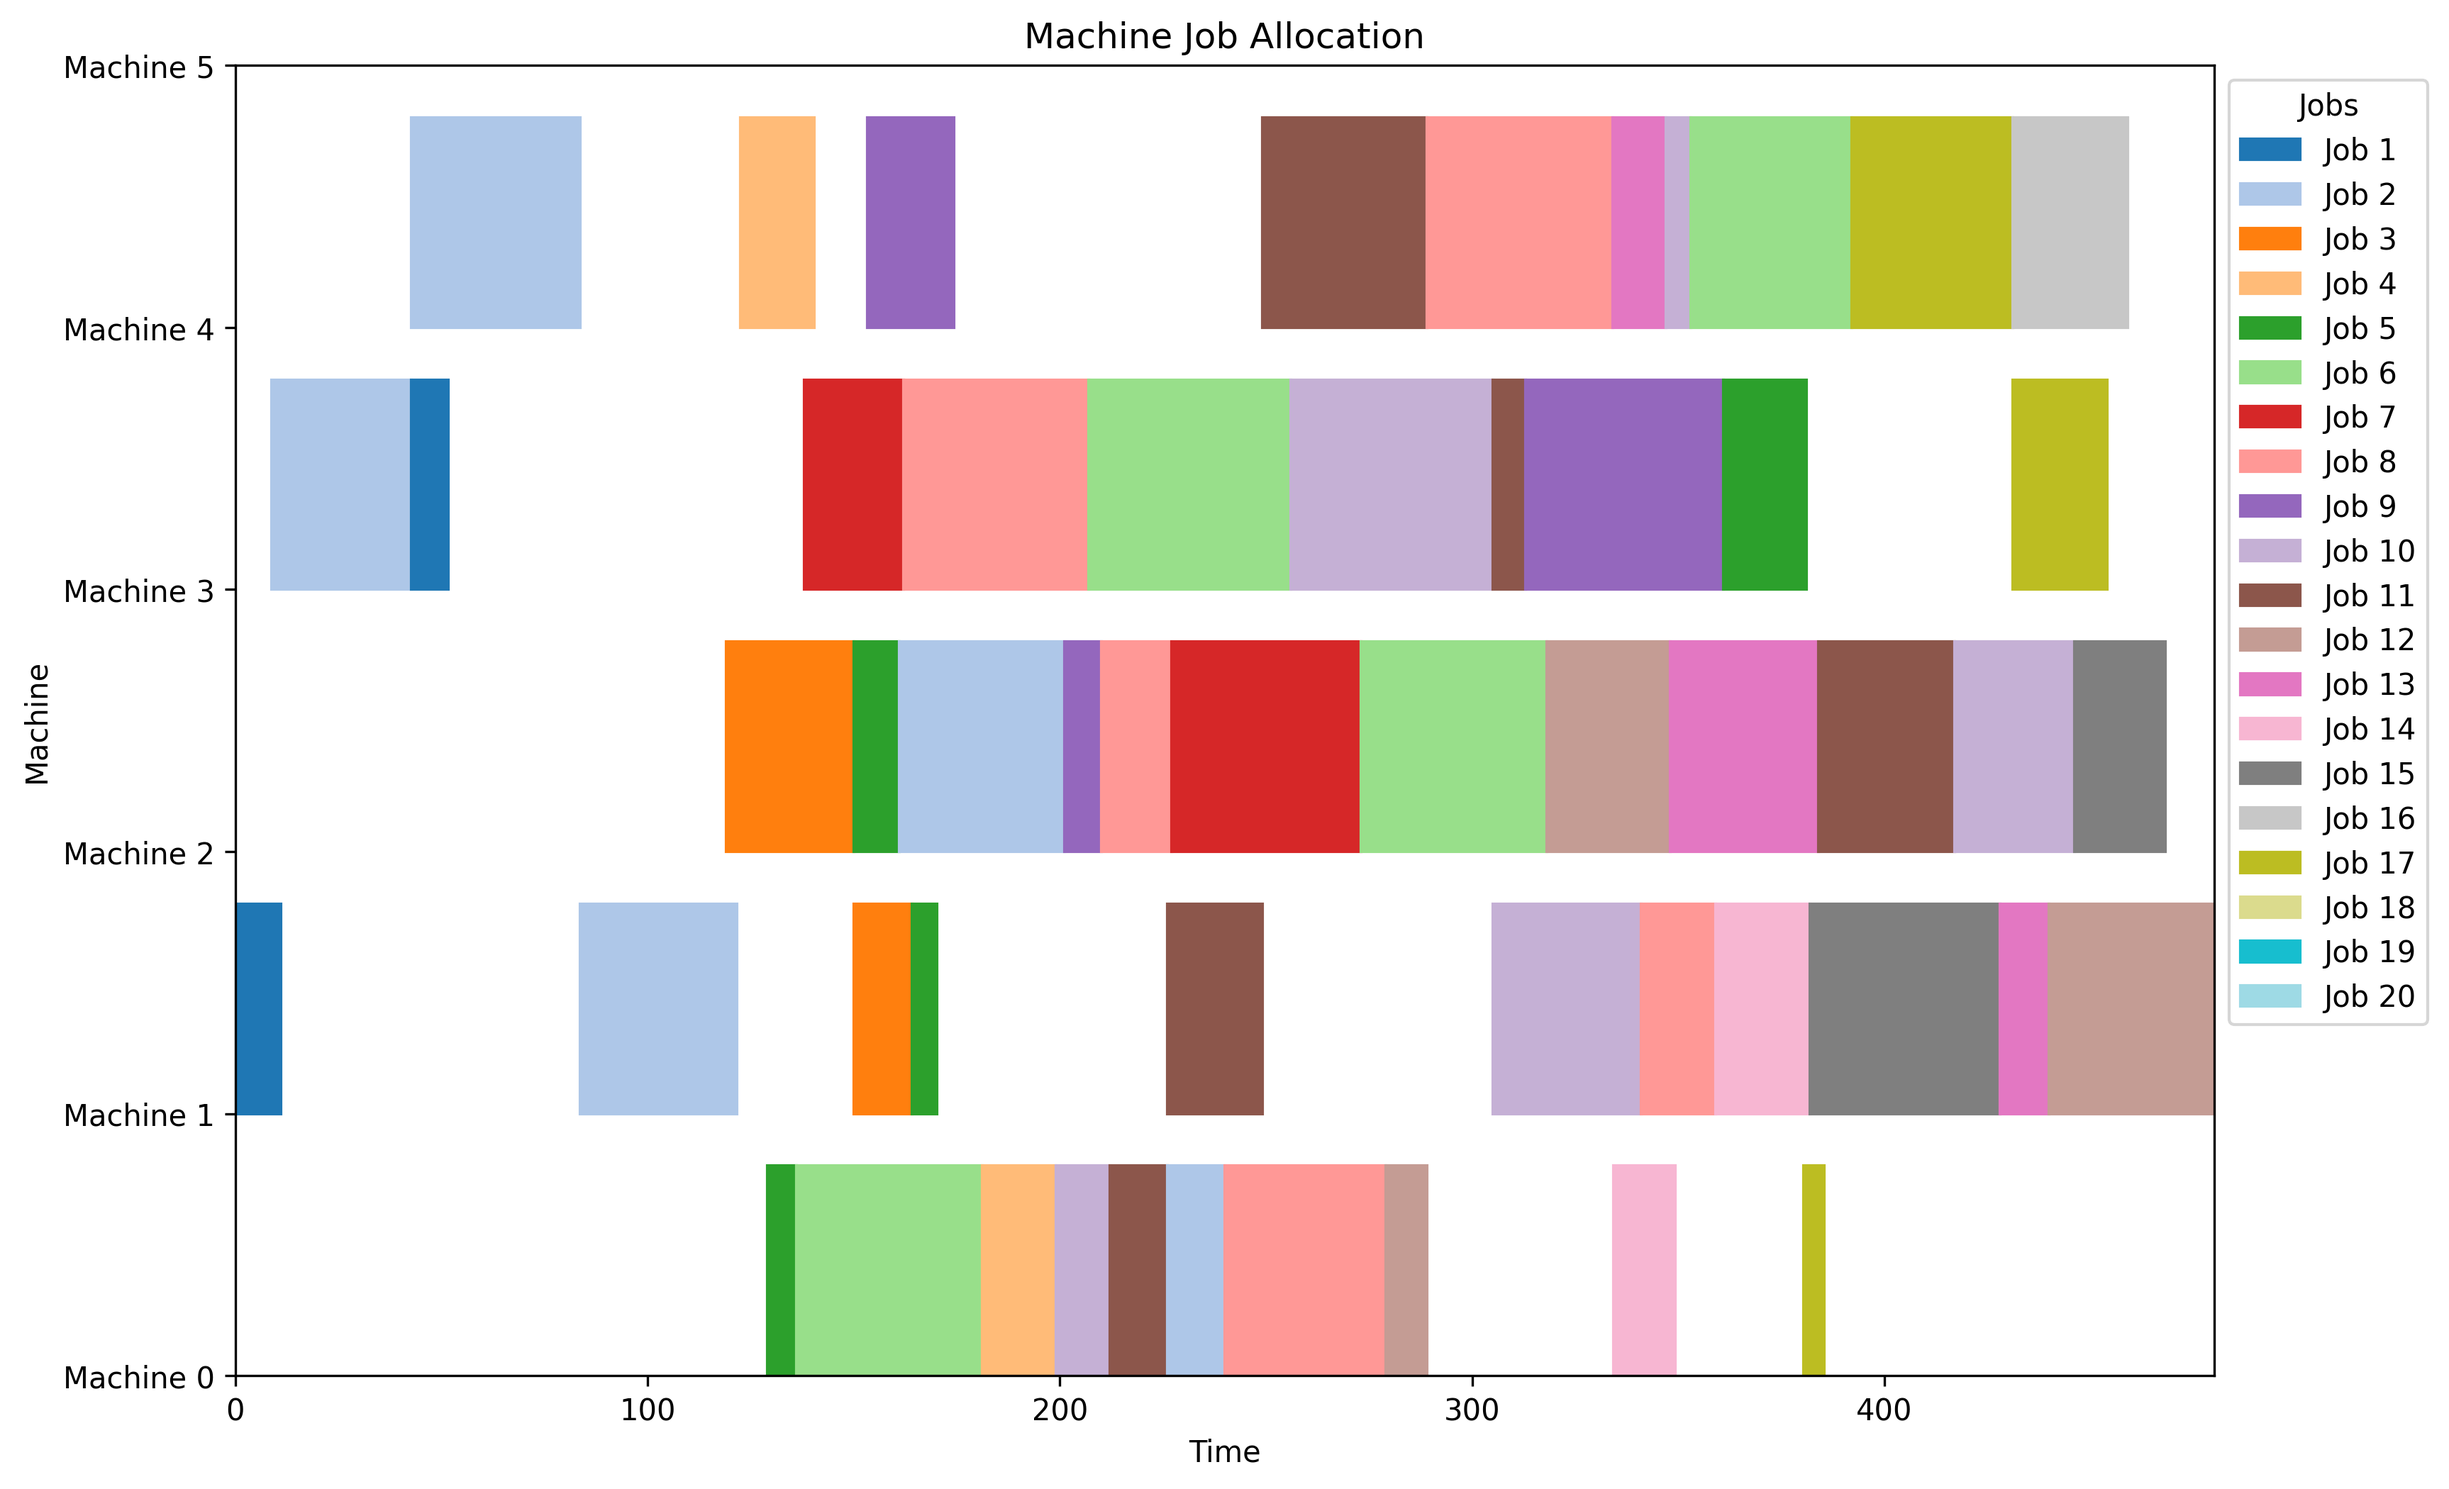
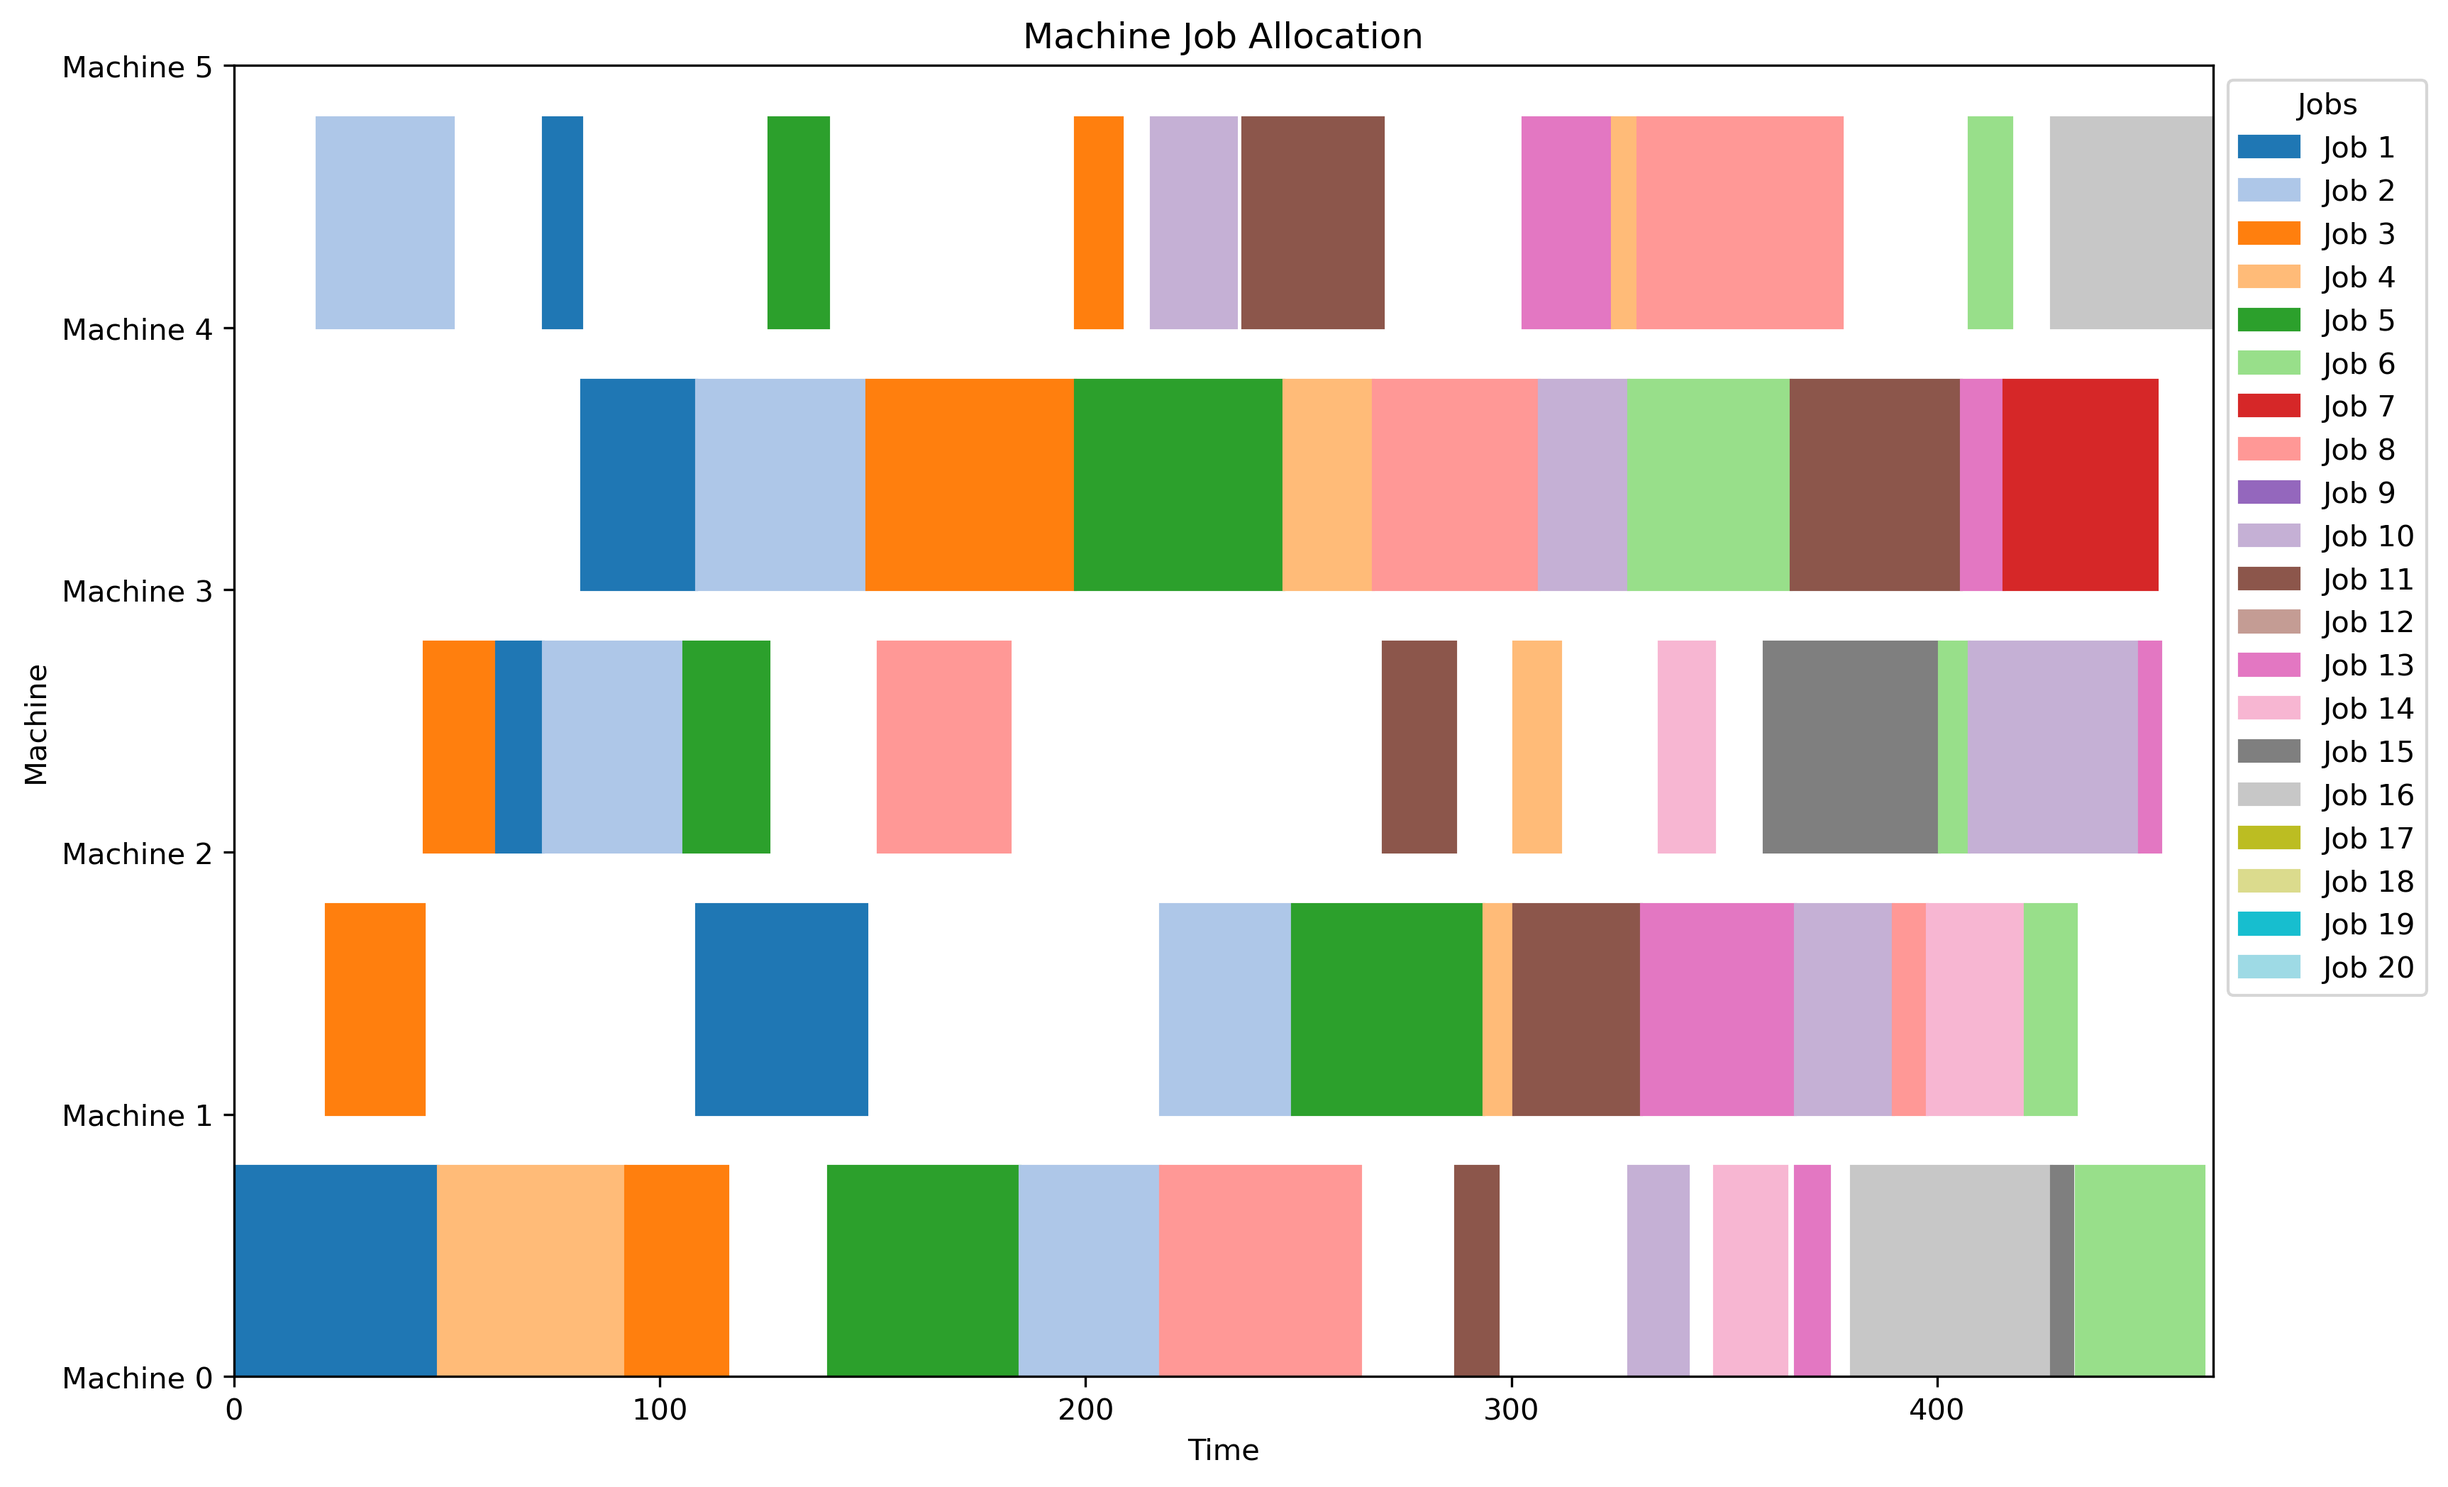
config objective

diff --git a/simulation.py b/simulation.py
@@ -356,30 +356,31 @@ def simulation(number_machines, number_jobs, warm_up, func, due_date_tightness, 
     return mean_flowtime, makespan, max_flowtime
 
 def rule(PT, RT, RPT, RNO, DD, RTO, PTN, SL, WT, APTQ, NJQ, WINQ, CT):
-    return RT
+    return (min(RTO,CT)-RT)
 
 if __name__ == "__main__":
     #Test the algorithm
     start = time.time()
-    max_tardiness = []
-    mean_tardiness = []
     mean_flowtime = []
+    makespan = []
+    max_flowtime = []
     
     random_seed = config.RANDOM_SEEDS_FOR_SIMULATION
     for i in random_seed:
-        current_mean_flowtime, current_mean_tardiness, current_max_tardiness = \
-            simulation(number_machines=config.NUMBER_MACHINES, number_jobs=config.NUMBER_JOBS, warm_up=config.WARM_UP, func=rule, random_seed=i, due_date_tightness=config.DUE_DATE_TIGHTNESS, utilization=config.UTILIZATION, missing_operation=config.MISSING_OPERATION)
+        current_mean_flowtime, current_makespan, current_max_flowtime = \
+            simulation(number_machines=config.NUMBER_MACHINES, number_jobs=config.NUMBER_JOBS, warm_up=config.WARM_UP,\
+                 func=rule, random_seed=i, due_date_tightness=config.DUE_DATE_TIGHTNESS, utilization=config.UTILIZATION, missing_operation=config.MISSING_OPERATION)
         mean_flowtime.append(current_mean_flowtime)
-        mean_tardiness.append(current_mean_tardiness)
-        max_tardiness.append(current_max_tardiness)
+        makespan.append(current_makespan)
+        max_flowtime.append(current_max_flowtime)
     end = time.time()
 
     # schedule.to_excel('schedule.xlsx')
     print(mean_flowtime)
-    print(mean_tardiness)
-    print(max_tardiness)
+    print(makespan)
+    print(max_flowtime)
 
     print(f'Execution time simulation per replication: {(end - start)}')
     print(f'Mean flowtime: {mean(mean_flowtime)}')
-    print(f'Mean Tardiness: {mean(mean_tardiness)}')
-    print(f'Max tardiness: {max(max_tardiness)}')
+    print(f'Mean makespan: {mean(makespan)}')
+    print(f'Max tardiness: {max(max_flowtime)}')

diff --git a/GPHH.py b/GPHH.py
@@ -70,10 +70,17 @@ toolbox.register("compile", gp.compile, pset=pset)
 def simpleEvalgenSeed(input):
     func = toolbox.compile(expr=input[0]) # Transform the tree expression in a callable function
     random_seed_current_run = input[1] # 來自於 invalid_ind 中的 random_seed (random.randint(1,300))
-    current_mean_flowtime, current_makespan = simulation(number_machines=config.NUMBER_MACHINES, number_jobs=config.NUMBER_JOBS, warm_up=config.WARM_UP,
+    current_mean_flowtime, current_makespan, current_max_flowtime = simulation(number_machines=config.NUMBER_MACHINES, number_jobs=config.NUMBER_JOBS, warm_up=config.WARM_UP,
                                                                                func=func, random_seed=random_seed_current_run, 
                                                                                due_date_tightness=config.DUE_DATE_TIGHTNESS, utilization=config.UTILIZATION, missing_operation=config.MISSING_OPERATION)
-    return current_mean_flowtime,
+    if config.OBJECTIVE == "MEAN-FLOWTIME":
+        return current_mean_flowtime,
+    if config.OBJECTIVE == "MAKESPAN":
+        return current_makespan,
+    if config.OBJECTIVE ==  "MAX-FLOWTIME":
+        return current_max_flowtime,
+    assert("No Objective!")
+    return 
 
 # def simpleEvalfixSeed(input):
 #     func = toolbox.compile(expr=input)  # Transform the tree expression in a callable function

diff --git a/config.py b/config.py
@@ -4,6 +4,9 @@
 RANDOM_SEED = 42
 SELECTION_METHOD = "BEST"
 # SELECTION_METHOD = "TOURNAMENT"
+# OBJECTIVE = "MAKESPAN"
+OBJECTIVE = "MEAN-FLOWTIME"
+# OBJECTIVE = "MAX-FLOWTIME"
 
 # General parameters
 NUMBER_MACHINES = 5  # 機器數量
@@ -11,7 +14,7 @@ NUMBER_JOBS = 10  # 工作數量
 WARM_UP = 5  # 熱身階段的工作數量
 DUE_DATE_TIGHTNESS = 4  # 交期緊迫度
 UTILIZATION = 0.80  # 設備利用率
-MISSING_OPERATION = True  # 是否允許缺少操作
+MISSING_OPERATION = False  # 是否允許缺少操作
 MEAN_PROCESSING_TIME = 25
 
 # GP parameters
